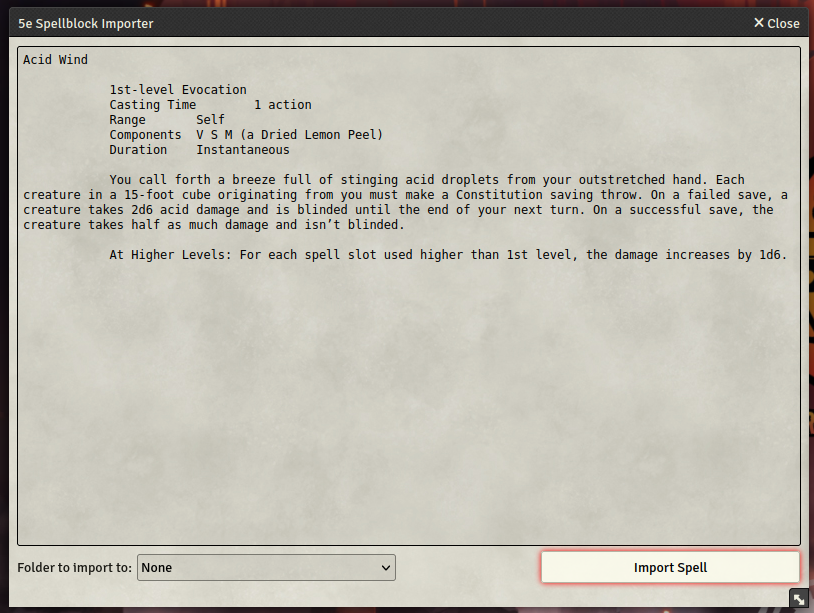
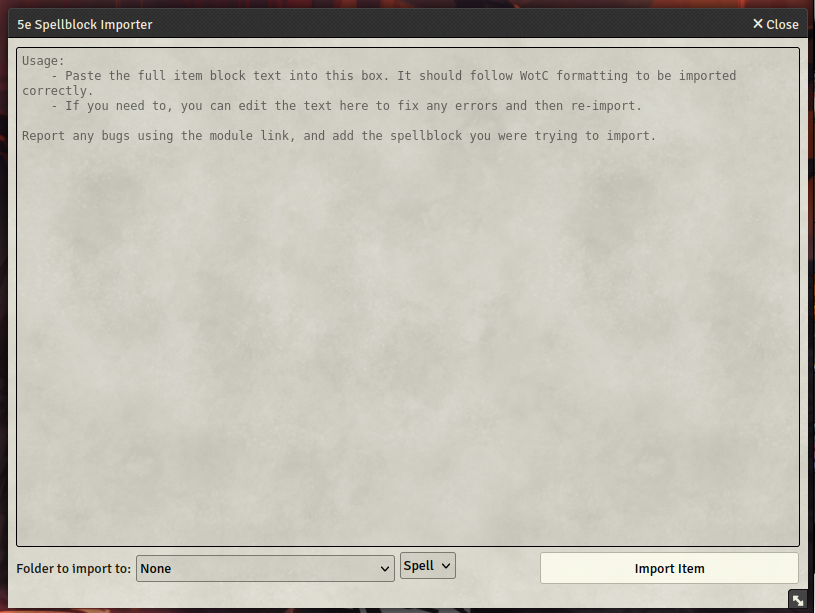
feat: added item import

diff --git a/scripts/spbiParser.js b/scripts/spbiParser.js
@@ -11,6 +11,7 @@ export class spbiParser {
     static #source = /source[: \t-]*(?<source>.*)/i
     static #range = /(range)[:\s]*(?<amount>\d+)?[\s,]*(?<units>self|feet|touch|special, see below|special)?[\s,]*(\(((?<area_amount>\d+)[\s,-]*(?<area_units>foot|mile)?[\s,]*(?<area_shape>radius|line)?)\))?/i
     static #text = /(\.\s?)/ig
+    static #item = /^(?<type>ammunition|bomb|oil|poison|adventuring gear|wondrous item|potion|weapon|armor|ring|staff|wand)?[ ]?(\((?<subtype>firearm|longsword|tattoo|shield|[^)]*)\))?[, ]*(?<rarity>very rare|rare|uncommon|legendary|artifact)?[ ]?(\((?<attunement>requires attunement by a|requires attunement)[ ]?(?<attuning_class>.*)?\))?/i
 
     static activationMap = {
         "action": "action",
@@ -69,6 +70,19 @@ export class spbiParser {
         "sphere": "sphere"
     }
 
+    static itemMap = {
+        "armor": { type: "equipment", img: "", subtype: { "plate": "heavy", "shield": "shield" }, subtypekey: "armor" },
+        "weapon": { type: "weapon", img: "", subtype: { "longsword": "heavy", "shield": "shield" }, subtypekey: "weaponType" },
+        "poison": { type: "consumable", img: "", subtype: "poison", subtypekey: "consumableType" },
+        "ammunition": { type: "consumable", img: "", subtype: "ammo", subtypekey: "consumableType" },
+        "potion": { type: "consumable", img: "", subtype: "potion", subtypekey: "consumableType" },
+        "rod": { type: "consumable", img: "", subtype: "rod", subtypekey: "consumableType" },
+        "scroll": { type: "consumable", img: "", subtype: "scroll", subtypekey: "consumableType" },
+        "food": { type: "consumable", img: "", subtype: "food", subtypekey: "consumableType" },
+        "wand": { type: "consumable", img: "", subtype: "wand", subtypekey: "consumableType" },
+        "wondrous item": { type: "consumable", img: "", subtype: "trinket", subtypekey: "consumableType" }
+    };
+
     static async parseInput(content, selectedFolderId, selectedType) {
         spbiUtils.log(content);
         spbiUtils.log(selectedFolderId);
@@ -83,14 +97,118 @@ export class spbiParser {
             case "spell":
                 await spbiParser.parseSpell(cleaned, selectedFolderId);
                 break;
-        
+            case "item":
+                await spbiParser.parseItem(cleaned, selectedFolderId);
+                break;
+
             default:
                 console.log("switch default")
                 break;
         }
-        
+
         //     // re-join the remaining lines
 
+    }
+
+    /**
+     * Parses a string containing an item statblock and creates a Foundry VTT item from it.
+     * 
+     * @param {string} cleaned - The string containing the item statblock.
+     * @param {string} selectedFolderId - The folder id to create the item in.
+     * 
+     * Splits the string into lines, extracts the item name from the first line. 
+     * Uses regex to extract details like rarity, attunement etc.
+     * Creates an item data object with the extracted info.
+     * Does additional processing based on item type like handling consumable subtypes.
+     * Replaces placeholders in the description text.
+     * Creates the Foundry VTT item.
+    */
+    static async parseItem(cleaned, selectedFolderId) {
+        console.log("in parseItem")
+        var lines = cleaned.split("\n"); // split all lines into array
+        var itemName = lines.shift(); // read and remove first line
+        var rest = lines.join("\n");
+        const parsedItem = this.#item.exec(rest);
+        console.log(parsedItem)
+        if (parsedItem) {
+            var workingtype = parsedItem.groups.type.toLowerCase();
+            var workingMap = this.itemMap[workingtype];
+            console.log(workingtype)
+            console.log(workingMap);
+            var itemObi = {
+                name: spbiUtils.capitalizeAll(itemName),
+                type: workingMap.type,
+                img: workingMap.img,
+                system: {
+                    rarity: parsedItem.groups.rarity ? (parsedItem.groups.rarity == "very rare" ? "veryRare" : parsedItem.groups.rarity) : "",
+                    attunement: parsedItem.groups.attunement ? true : false,
+                    description: {
+                        value: ""
+                    }
+                },
+                folder: selectedFolderId
+            };
+            console.log("first obj created");
+            switch (workingMap.type) {
+                case "consumable":
+                    console.log("is a consumable")
+                    itemObi.system[workingMap.subtypekey] = workingMap.subtype;
+                    break;
+                case "equipment":
+                case "weapon":
+                    console.log("is a equipment/weapon")
+                    if (parsedItem.groups.subtype) {
+                        console.log("Subtype found");
+                        console.log(workingMap.subtype[parsedItem.groups.subtype]);
+                        let pack = await game.packs.get("dnd5e.items");
+                        console.log(pack);
+                        let index = await pack.getIndex();
+                        console.log(index);
+                        let entry = index.find(e => e.name.toLowerCase() === parsedItem.groups.subtype)
+                        console.log(entry);
+                        if (entry) {
+                            let entity = await pack.getDocument(entry._id);
+                            console.log(entity);
+                            console.log(entity.system);
+                            itemObi.system = JSON.parse(JSON.stringify(entity.system));
+                            itemObi.system.rarity = parsedItem.groups.rarity ? (parsedItem.groups.rarity == "very rare" ? "veryRare" : parsedItem.groups.rarity) : "";
+                            itemObi.system.attunement = parsedItem.groups.attunement ? true : false;
+                            itemObi.img = entity.img;
+                        } else {
+                            console.log("No entry found for subtype " + parsedItem.groups.subtype);
+                            var armorObj = {
+                                value: null,
+                                type: workingMap.subtype[parsedItem.groups.subtype] ? workingMap.subtype[parsedItem.groups.subtype] : "",
+                                dex: null
+                            }
+                            itemObi.system[workingMap.subtypekey] = armorObj
+                        }
+                    } else {
+                        console.log("No entry found for subtype " + parsedItem.groups.subtype);
+                        var armorObj = {
+                            value: null,
+                            type: workingMap.subtype[parsedItem.groups.subtype] ? workingMap.subtype[parsedItem.groups.subtype] : "",
+                            dex: null
+                        }
+                        itemObi.system[workingMap.subtypekey] = armorObj
+                    }
+
+                    break;
+
+                default:
+                    break;
+            }
+            var itemSubst = parsedItem.groups.attuning_class ? parsedItem.groups.attunement + " " + parsedItem.groups.attuning_class : "";
+            rest = rest.replace(this.#item, itemSubst);
+
+            console.log(rest);
+            rest = rest.replace(this.#text, ".<br/>");
+            itemObi.system.description.value = rest;
+            console.log(itemObi)
+            const newItem = await Item.create(itemObi);
+            newItem.sheet.render(true);
+
+        }
     }
 
     static async parseSpell(cleaned, selectedFolderId) {
@@ -225,7 +343,7 @@ export class spbiParser {
             spellObj.system.target = target;
 
         }
-        
+
         return rest.replace(this.#range, "");
     }
 
@@ -238,4 +356,55 @@ export class spbiParser {
         }
         return rest.replace(this.#source, "");
     }
+
 }
+
+/*
+
+
+   
+veryRare: "very rare"
+
+
+equipmentTypes: Object { clothing: "Clothing", heavy: "Heavy Armor", light: "Light Armor", … }
+   
+clothing: "Clothing"
+   
+heavy: "Heavy Armor"
+   
+light: "Light Armor"
+   
+medium: "Medium Armor"
+   
+natural: "Natural Armor"
+   
+shield: "Shield"
+   
+trinket: "Trinket"
+   
+vehicle: "Vehicle Equipment"
+
+
+
+
+armorTypes: Object { light: "Light Armor", medium: "Medium Armor", heavy: "Heavy Armor", … }
+   
+heavy: "Heavy Armor"
+   
+light: "Light Armor"
+   
+medium: "Medium Armor"
+   
+natural: "Natural Armor"
+   
+shield: "Shield"
+
+toolTypes: Object { art: "Artisan's Tools", game: "Gaming Set", music: "Musical Instrument" }
+   
+art: "Artisan's Tools"
+   
+game: "Gaming Set"
+   
+music: "Musical Instrument"
+
+*/

diff --git a/scripts/module.js b/scripts/module.js
@@ -18,7 +18,7 @@ Hooks.on("renderItemDirectory", (app, html, data) => {
     spbiUtils.log("Rendering spbi button");
 
     // Add the import button to the UI in the characters tab.
-    const importButton = $("<button id='sbi-main-button'><i class='fas fa-file-import'></i></i>Import Spell</button>");
+    const importButton = $("<button id='sbi-main-button'><i class='fas fa-file-import'></i></i>{{ localize '5e-spellblock-importer.importTextTab' }}</button>");
     html.find(".directory-footer").append(importButton);
 
     importButton.click(async (ev) => {

diff --git a/README.md b/README.md
@@ -9,21 +9,28 @@
 
 # 5e Spellblock Importer
 
-Do you have a number of homebrewed spells around that you want to use in your foundry 5e game?  Are you tired of manually entering all of them?
+Do you have a number of homebrewed spells or items around that you want to use in your foundry 5e game?  Are you tired of manually entering all of them?
 
-5e Spellblock Importer got you covered! You can now copy and paste the standard spell format in the import dialog and "Voilà!" the new spell item is ready to be used or further customized.
+5e Spellblock Importer got you covered! You can now copy and paste the standard spell or item format in the import dialog and "Voilà!" the new spell or item is ready to be used or further customized in your world.
 
 You will find this button in the bottom of the **Items** tab:
+
 ![Import Button](doc/item-button.png)
+
 It will open the import dialog
+
 ![Import Dialog](doc/import-dialog.png)
 
-You can paste and edit, if necessary, the spellblock.
+You can paste and edit, if necessary, the spellblock or the itemblock.
 
-The important thing is that the spell name **has** to be the first line of the block.
+Remeber to choose in the **small dialog** if you are importing a spell or an item.
 
-When you are satisfied you can press the **Import Spell** button and you will see the spell imported in your world.
+The important thing is that the spell or item name **has** to be the first line of the block.
+
+When you are satisfied you can press the **Import** button and you will see the spell or item imported in your world.
 ![Imported Spell](doc/imported-spell.png)
+
+For items Weapons that have a subtype that matches an existing object in the SRD compendium it will clone the attributes from there to speed edit time, you will be able to alter the datails after the import without having to rewrite all the data of the weapon.
 
 ## Acknoledments
 Thanks to [ArcaneRoboBrain](https://foundryvtt.com/community/arcanerobobrain) for the creation of [5e Statblock importer](https://foundryvtt.com/packages/5e-statblock-importer) from which module i've taken code and inspiration.
